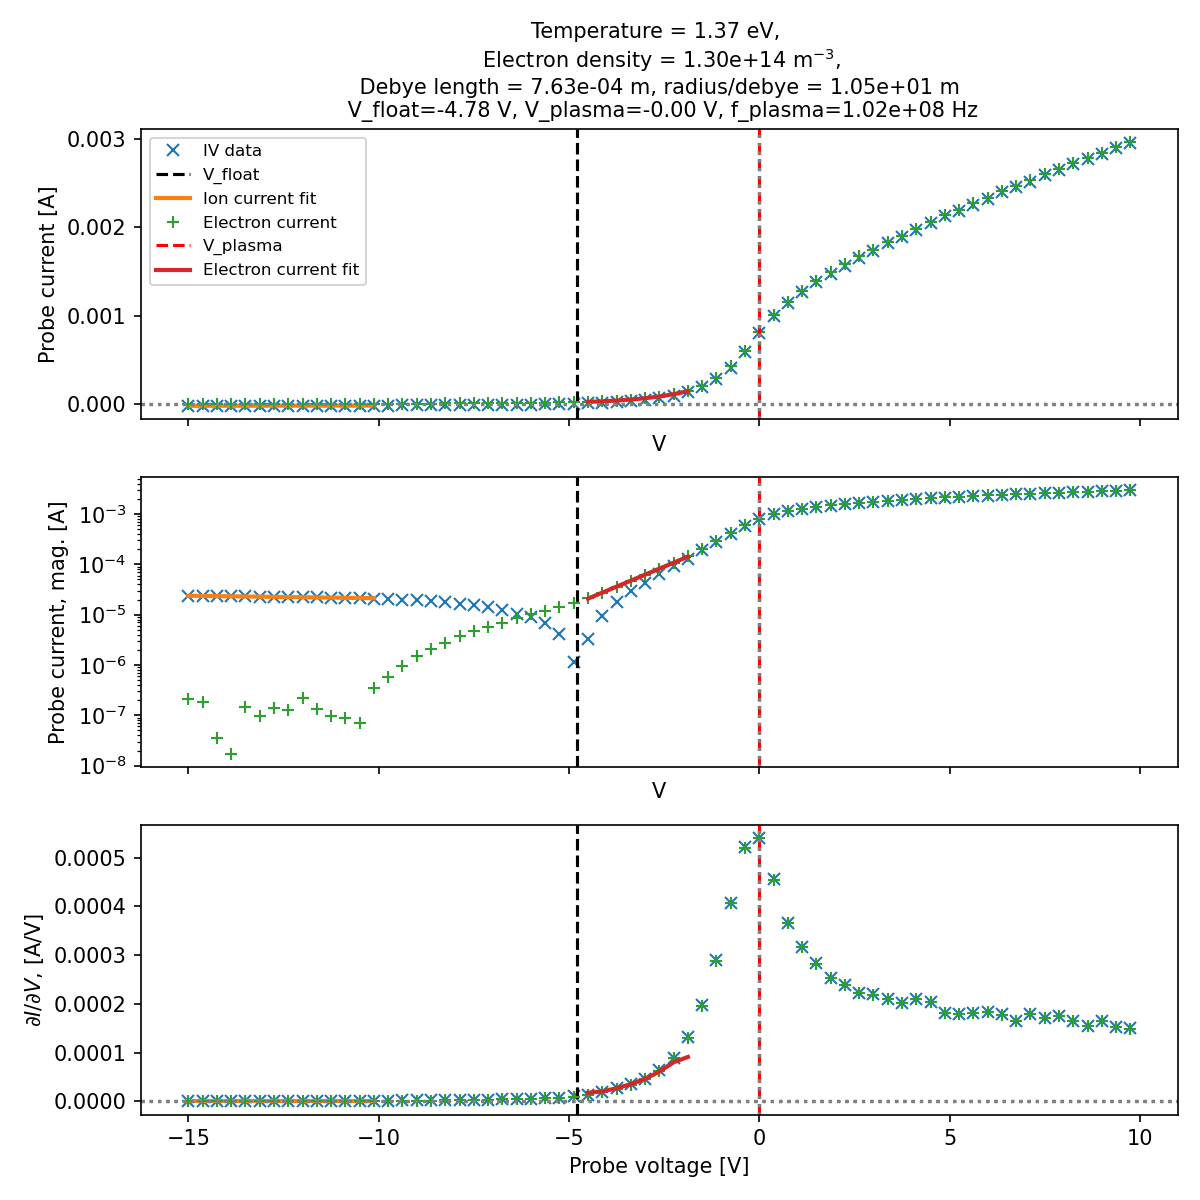
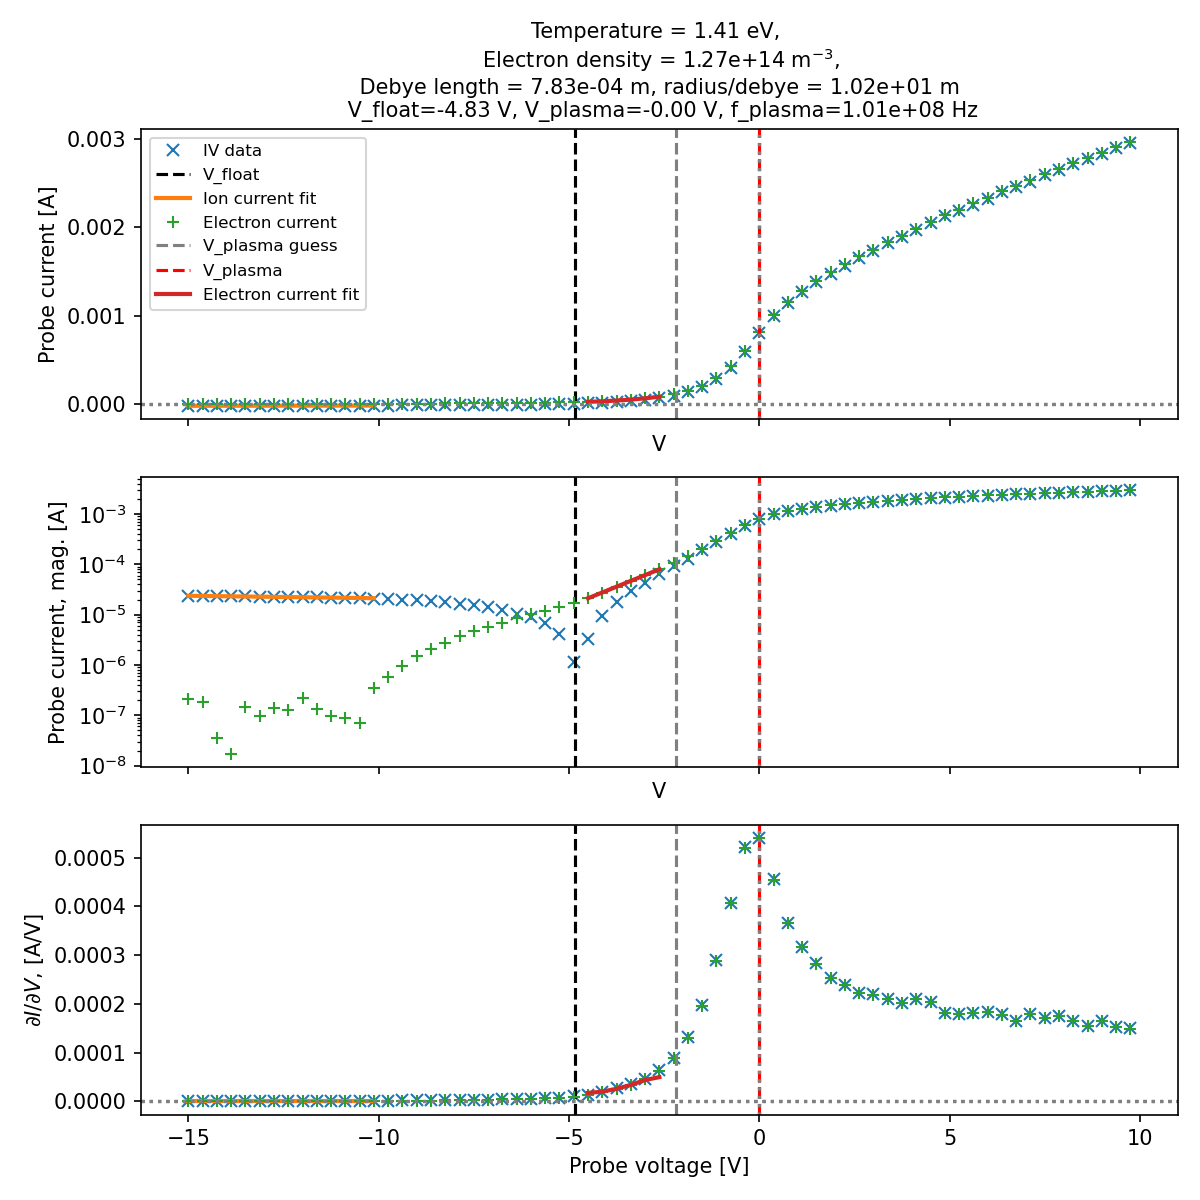
commit

diff --git a/_lagmuir_probe_analysis.py b/_lagmuir_probe_analysis.py
@@ -30,7 +30,16 @@ _M_AR = 39.948 * _AMU         # mass of argon
 ##################################
 # %% Plotting functions
 
-def _update_title(axes, temperature_in_eV=_np.nan, n_e=_np.nan, debye=_np.nan, radius=_np.nan, V_float=_np.nan, V_plasma=_np.nan, f_p=_np.nan):
+def _update_title(
+        axes, 
+        temperature_in_eV=_np.nan, 
+        n_e=_np.nan, 
+        debye=_np.nan, 
+        radius=_np.nan, 
+        V_float=_np.nan, 
+        V_plasma=_np.nan, 
+        f_p=_np.nan,
+        ):
     new_title = 'Temperature = %.2f eV, \n Electron density = %.2e %s, \n Debye length = %.2e m, radius/debye = %.2e m \n V_float=%.2f V, V_plasma=%.2f V, f_plasma=%.2e Hz' % (temperature_in_eV, n_e, r'm$^{-3}$', debye, radius/debye, V_float, V_plasma, f_p)
     axes[0].set_title(new_title, fontsize=10)
 
@@ -39,7 +48,7 @@ def plot_IV_data(IV,
                  fig=None, 
                  axes=None, 
                  label='', 
-                 linthresh=1e-6, 
+                 # linthresh=1e-6, 
                  # plot_deriv=True,
                  init=False,
                  plot_kwargs = dict(marker=None, linestyle=None, color=None, linewidth=2)
@@ -89,13 +98,13 @@ def _smooth_IV_data(IV, smooth_width_in_volts=3, plot=False):
         fig, ax = _plt.subplots()
         IV.plot(ax=ax, marker='x', linestyle='', label='raw')
         IV_smoothed.plot(ax=ax, label='smoothed')
-        ax.set_yscale('symlog', linthresh=1e-5)
+        # ax.set_yscale('symlog', linthresh=1e-5)
         
     return IV_smoothed
 
 
 def _polynomial_fit(da,    
-                order=2, 
+                order, 
                 plot=False,
                 verbose=False):
     """ 
@@ -195,11 +204,44 @@ def _density_to_plasma_frequency(n0_in_m3):
 ##################################
 # %% Langmuir analysis subfunctions
 
+def _probe_area_correction(
+        IV, 
+        probe_area_in_m2, 
+        n_e, 
+        V_p, 
+        temperature_in_eV,
+        probe_radius,
+        probe_geometry='planar', # 'planar', 'cylindrical', 'spherical',
+        ):
+    """ 
+    Eq. 5 in Lobbia-Beal: https://doi.org/10.2514/1.B35531 
+    Intended as a correction to the linear I_sat fit for isolating the electron current.
+    """
+    print("this function is untested # TODO")
+    
+    assert probe_geometry in ['planar', 'cylindrical', 'spherical'], f"probe_geometry was {probe_geometry}, which was not recognized."
+    
+    if probe_geometry == "planar":
+        return probe_area_in_m2
+    else:
+        debye_length = _calc_debye_length(n_e, temperature_in_eV)
+        # V_bias = IV.V.data[-1]  ## This is incorrect
+        V_bias = IV.V.data
+        x_s = debye_length * _np.sqrt(2) / 3 * ((2 * V_p - V_bias) / temperature_in_eV) ** 0.75
+        
+        if probe_geometry == "cylindrical":
+            corrected_probe_area_in_m2 = probe_area_in_m2 * (1 + x_s / probe_radius)
+        elif probe_geometry == "spherical":
+            corrected_probe_area_in_m2 = probe_area_in_m2 * (1 + x_s / probe_radius) ** 2
+            
+        return corrected_probe_area_in_m2
+            
+            
 def _calc_electron_density(I_electron, 
                            V_plasma, 
                            temperature_in_eV, 
                            probe_area_in_m2):
-    """ calculates electron density """
+    """ calculates electron density using Eq. 3 in Lobbia-Beal: https://doi.org/10.2514/1.B35531 """
     I_e_sat = float(I_electron.interp(V=V_plasma))
     n_e = (I_e_sat / (_E * probe_area_in_m2)) * _np.sqrt(2 * _np.pi * _M_E / (temperature_in_eV * _EV))
     return n_e
@@ -211,26 +253,39 @@ def _calc_Vp_from_theory(temperature_in_eV,
     return _np.log(_np.sqrt(ion_mass / (2 * _np.pi * _M_E))) * temperature_in_eV + V_float
     
 
-def _calc_Vp_from_deriv(I_electron_smoothed, 
+def _calc_Vp_from_deriv(I_electron, 
                            V_float, 
-                           plot=False):
+                           plot=False,
+                           smooth_width_in_volts=0.0,
+                           ):
     """ calculates V_plasma from the derivative of the smoothed V_float """
     
+    I_electron_smoothed = _smooth_IV_data(I_electron, smooth_width_in_volts=smooth_width_in_volts, plot=False)
+    
     # take derivative
-    dIdV = _xr.DataArray(_np.gradient(I_electron_smoothed) / _np.gradient(I_electron_smoothed.V), dims=I_electron_smoothed.dims, coords=I_electron_smoothed.coords)
+    dIdV = _xr.DataArray(_np.gradient(I_electron) / _np.gradient(I_electron.V), dims=I_electron.dims, coords=I_electron.coords)
+    dIdV_smoothed = _xr.DataArray(_np.gradient(I_electron_smoothed) / _np.gradient(I_electron_smoothed.V), dims=I_electron_smoothed.dims, coords=I_electron_smoothed.coords)
     
     # find the maximum value of dIdV above the floating potential
-    Vp = float(dIdV.where(dIdV.V > V_float).idxmax())
+    if smooth_width_in_volts > 0:
+        Vp = float(dIdV_smoothed.where(dIdV.V > V_float).idxmax())
+        
+    else:
+        Vp = float(dIdV.where(dIdV.V > V_float).idxmax())
     
     if plot is True:
         fig, (ax1, ax2) = _plt.subplots(2, sharex=True)
-        I_electron_smoothed.plot(ax=ax1)
-        dIdV.plot(ax=ax2)
+        I_electron.plot(ax=ax1, label="raw I_electron")
+            
+        dIdV.plot(ax=ax2, label="from raw I_electron")
+        if smooth_width_in_volts > 0:
+            I_electron_smoothed.plot(ax=ax1, label="smoothed I_electron")
+            dIdV_smoothed.plot(ax=ax2, label="from smoothed I_electron")
         ax1.plot([Vp, Vp], [float(I_electron_smoothed.min()), float(I_electron_smoothed.max())], color='r', linestyle='--', label='V_plasma')
         ax2.plot([Vp, Vp], [float(dIdV.min()), float(dIdV.max())], color='r', linestyle='--', label='V_plasma')
         for a in [ax1, ax2]:
             a.legend()
-        ax1.set_yscale('symlog', linthresh=1e-5)
+        # ax1.set_yscale('symlog', linthresh=1e-5)
         
     return Vp
 
@@ -256,7 +311,7 @@ def _calc_temp_from_electron_current(I_electron,
 
         # raise Exception("Electron current must be positive to perform this fit.  Check that your I_sat fit is correct. " )
         
-    ## take the natural log of the electron current and apply a linear fit
+    ## take the natural log of the electron current and apply a linear fit.  Doing a linear fit on the ln(I) is important because it better weights the data for fitting.
     ln_Ie = _xr.DataArray(_np.log(Ie_windowed), dims=Ie_windowed.dims, coords=Ie_windowed.coords)
     lin_fit, ffit, _, _ = _polynomial_fit(ln_Ie, order=1, plot=False, verbose=False)
     
@@ -282,9 +337,15 @@ def _find_V_float(
         smooth_width_in_volts=1.0, 
         plot=False,
         ):
-    """ Finds V_float by interporloating V(I)=0 """
+    """ 
+    Finds V_float by interporloating V(I)=0 
+    We analyze V(I)=0 instead of I(V)=0 because V(I) is less likely to have multiple zero intercepts due to the significantly larger gradient.
+    A consequence of this is that V(I) might have duplicate values of I, and the interp() function below will crash if this happends.
+    """
     
     I_min = _np.abs(float(IV.min()))
+    if smooth_width_in_volts == 0:
+        smooth_width_in_volts = 1.0 # this must be a non-zero value.  It's possible for V(I) to have repeat I values and smoothing fixes this.  
     
     if smooth_width_in_volts > 0:
         IV = _smooth_IV_data(IV.copy(), plot=False, smooth_width_in_volts=smooth_width_in_volts)
@@ -293,8 +354,8 @@ def _find_V_float(
     VI = _xr.DataArray(IV.V.data, dims='I', coords=[IV.data])
     
     # find the zero crossing in V(I)
-    # TODO write code to handle if there is more than one zero crossing
-    V_float = float(VI.where((VI.I>=-I_min) & (VI.I<=I_min)).interp(I=0))
+    VI_narrow = VI.where((VI.I>=-I_min) & (VI.I<=I_min)).dropna("I")
+    V_float = float(VI_narrow.interp(I=0.0))
     
     if plot is True:
         fig, axes = _plt.subplots(2, sharex=True)
@@ -395,6 +456,9 @@ def IV_sweep_analysis(
      * [2] Merlino, "Understanding Langmuir probe current-voltage characteristics" https://aapt.scitation.org/doi/10.1119/1.2772282
         
     """
+    if verbose: print("Checking inputs. ")
+    assert probe_geometry in ['planar', 'cylindrical', 'spherical'], f"probe_geometry was {probe_geometry}, which was not recognized."
+    assert str(type(IV)) == "<class 'xarray.core.dataarray.DataArray'>", f"IV must be an xarray dataarray filetype.  Instead, type(IV) = {type(IV)}"
 
     if verbose: print("Trimming voltage range if requested. ")
     if type(V_lim) is list:
@@ -403,21 +467,28 @@ def IV_sweep_analysis(
         
     if verbose: print("Performing misc. calculations. ")
     dV = _np.mean(IV.V[1:].values - IV.V[:-1].values) # calculate the average voltage step
-    radius = _np.sqrt(probe_area_m2 / _np.pi) # probe radius, assuming circular
+    if probe_geometry == "planar":
+        radius = _np.sqrt(probe_area_m2 / _np.pi) # probe radius, assuming circular
+    elif probe_geometry == "spherical": 
+        radius = _np.sqrt(probe_area_m2 / (4 * _np.pi)) # probe radius, assuming circular
+    ## TODO add spherical
     
     if verbose: print("Step 1: Finding the floating potential by idenfying the zero intercept. ")
     V_float = _find_V_float(IV, smooth_width_in_volts=smooth_width_in_volts, plot=False)
 
     if verbose: print("Step 2: Calculating the ion current by performing a linear fit. ")
     if len(V_isat_fit_range) == 0:
-        V_isat_fit_range = [-_np.inf, (V_float - IV.V[0].data) / 2.0 + IV.V[0].data] # TODO This 1.25 factor is somewhat arbitrary.  Is there a better way to implement this?
+        V_isat_fit_range = [-_np.inf, (V_float - IV.V[0].data) / 2.0 + IV.V[0].data] # TODO This factor is somewhat arbitrary.  Is there a better way to implement this?
     I_windowed_for_isat = IV[IV.V < V_isat_fit_range[1]]
-    I_ion_fit, I_ion_fit_func, _, _ = _polynomial_fit(I_windowed_for_isat, order=1, plot=plot_intermediate_steps)    ## (optional) initialize plot
+    if probe_geometry == "planar":
+        I_ion_fit, I_ion_fit_func, _, _ = _polynomial_fit(I_windowed_for_isat, order=1, plot=plot_intermediate_steps)    ## (optional) initialize plot
+    else:
+        raise Exception("cylindrical and spherical geometries not yet implemented.  # TODO")
     
+    if verbose and plot is True: print("Optional. Initializing plot. ") 
     if plot is True:
-        if verbose: print("Initializing plot. ")    
-        linthresh = 10 ** (_np.floor(_np.log10(_np.abs(float(_np.abs(I_ion_fit).min())))) - 1)        
-        fig, axes = plot_IV_data(IV, label='IV data', plot_kwargs = dict(marker='x',  linestyle='', color=None, linewidth=2), linthresh=linthresh, init=True, )
+        # linthresh = 10 ** (_np.floor(_np.log10(_np.abs(float(_np.abs(I_ion_fit).min())))) - 1)        
+        fig, axes = plot_IV_data(IV, label='IV data', plot_kwargs = dict(marker='x',  linestyle='', color=None, linewidth=2),  ) # linthresh=linthresh, init=True,
         for a in axes:
             a.axvline(V_float, label='V_float', linestyle='--', color='k')
         plot_IV_data(I_ion_fit.where(I_ion_fit.V<=V_float), fig=fig, axes=axes,  label='Ion current fit', )
@@ -425,7 +496,6 @@ def IV_sweep_analysis(
 
     if verbose: print("Step 3: Solving for the electron current by subtracting the ion saturation linear fit from I(V). ")
     I_electron = IV.copy() - I_ion_fit_func(IV.V)
-    I_electron_smoothed = _smooth_IV_data(I_electron, smooth_width_in_volts=smooth_width_in_volts, plot=False)
     if plot is True:
         plot_IV_data(I_electron, fig=fig, axes=axes, label='Electron current', plot_kwargs = dict(marker='+',  linestyle='', color=None, linewidth=2), )
         _update_title(axes, V_float=V_float, radius=radius)
@@ -433,8 +503,10 @@ def IV_sweep_analysis(
     if verbose: print("Step 4: Guessing at V_plasma either by 1) using the provided guess or 2) calculating it from the provided temperature guess. ")
     if type(Vp_guess) is not type(None):
         V_plasma = Vp_guess
-    else:
+    elif isinstance(temperature_in_eV_guess, (int, float)):
         V_plasma = _calc_Vp_from_theory(temperature_in_eV_guess, V_float, ion_mass, )    
+    else:
+        raise Exception("Vp_guess or temperature_in_eV_guess must be provided...  Neither were. ")
     if plot is True:
         for a in axes:
             a.axvline(V_plasma, label='V_plasma guess', linestyle='--', color='grey')
@@ -444,31 +516,31 @@ def IV_sweep_analysis(
     if verbose: print("Step 5: Iteratively solving for V_plasma and temperature until convergence. ")
     for i in range(10): # TODO presently this is a brute-force interation of 10 cycles.  I can do this more intelligently.
         
-        ## Determines the bounds for the exponential region for fitting
+        ## Step 5a: Determines the bounds for the exponential region for fitting
         if len(V_ion_current_exp_range) == 2:
             exp_fit_bounds = V_ion_current_exp_range
         else:
-            exp_fit_bounds = [V_float, (V_plasma - V_float) / 1.5 + V_float] # TODO This 1.5 factor is somewhat arbitrary.  Is there a better way to implement this?
+            exp_fit_bounds = [V_float, (V_plasma - V_float) / 2.0 + V_float] # TODO This 1.5 factor is somewhat arbitrary.  Is there a better way to implement this?
         
-        ## Calclutes kTe/e (temperature with units in eV)
+        ## Step 5b: Calclutes temperature, kTe/e, which has units in eV (actually volts)
         temperature_in_eV, log_fit = _calc_temp_from_electron_current(I_electron, 
                                                                 exp_fit_bounds=exp_fit_bounds, 
                                                                 dV=dV, 
                                                                 plot=plot_intermediate_steps)
                      
-        ## Calculate V_plasma
+        ## Step 5c: Calculate V_plasma
         if calc_Vp_from_deriv is True:
-            V_plasma = _calc_Vp_from_deriv(I_electron_smoothed, V_float, plot=plot_intermediate_steps)
-        else:
+            V_plasma = _calc_Vp_from_deriv(I_electron, V_float, plot=plot_intermediate_steps, smooth_width_in_volts=smooth_width_in_volts, )
+        else: # calculate Vp using temperature.  This method is numerically more stable but arguably less accurate.  
             V_plasma = _calc_Vp_from_theory(temperature_in_eV, V_float, ion_mass)
             
         if verbose:
-            print("Converging on V_plasma and temp: ", V_plasma, temperature_in_eV)
+            print(f"Step {i}: Converging on V_plasma and temp: {V_plasma}, {temperature_in_eV}")
             
     if plot is True:
         for a in axes:
             a.axvline(V_plasma, label='V_plasma', linestyle='--', color='r')
-        plot_IV_data(log_fit, fig=fig, axes=axes, label='Electron current fit', linthresh=linthresh, )
+        plot_IV_data(log_fit, fig=fig, axes=axes, label='Electron current fit', ) # linthresh=linthresh, 
         _update_title(axes, V_float=V_float, radius=radius, temperature_in_eV=temperature_in_eV, V_plasma=V_plasma)
 
     if verbose: print("Step 6: Calcuating electron density, debye length, and plasma frequency ")
@@ -478,7 +550,7 @@ def IV_sweep_analysis(
     if plot is True:
         _update_title(axes, V_float=V_float, radius=radius, temperature_in_eV=temperature_in_eV, n_e=n_e, debye=debye, V_plasma=V_plasma, f_p=f_p)
         
-    if verbose: print("Step 7: Iteratively solving for the ion density.  This is not implemented because I can't  the method described in reference #1 to work.  Possible typo in reference?  ")
+    if verbose: print("Step 7: Iteratively solving for the ion density.  #TODO This is not implemented because I can't  the method described in reference #1 to work.  Possible typo in reference?  ")
         
     if plot is True:
         if verbose: print("Finalizing figure. ")
